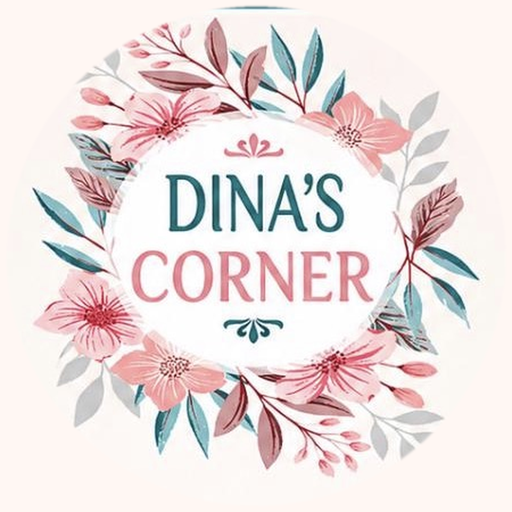
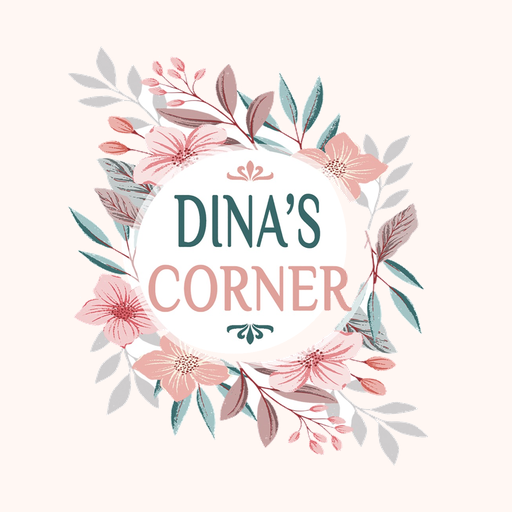
Add files via upload

diff --git a/sw.js b/sw.js
@@ -1,4 +1,4 @@
-const CACHE = "dinas-corner-gm-v25-dynamic-gm-branch-cards";
+const CACHE = "dinas-corner-gm-v26-approved-floral-logo";
 const SHELL = [
   "./", "./index.html", "./login.html", "./menu.html", "./welcome.html", "./manifest.webmanifest",
   "./GM/index.html", "./GM/gm-login.html", "./GM/gm-dashboard.html",
@@ -6,7 +6,7 @@ const SHELL = [
   "./GM/gm-locations.html",
   "./assets/style.css", "./assets/gm-login.css", "./assets/app.js", "./assets/config.js", "./assets/dina-branch-maps.js",
   "./assets/tenant-config.js", "./assets/tenant-branding.js",
-  "./assets/dina-corner-logo.png", "./assets/dina-corner-logo-transparent.png", "./assets/dina-corner-icon.png",
+  "./assets/dina-corner-logo.png", "./assets/dina-corner-logo-transparent.png", "./assets/dina-corner-logo-approved.png", "./assets/dina-corner-icon.png",
   "./assets/dina-corner-icon-192.png", "./assets/dina-corner-icon-512.png",
   "./assets/dina-floral-tl.png", "./assets/dina-floral-tr.png",
   "./assets/dina-floral-bl.png", "./assets/dina-floral-br.png",
